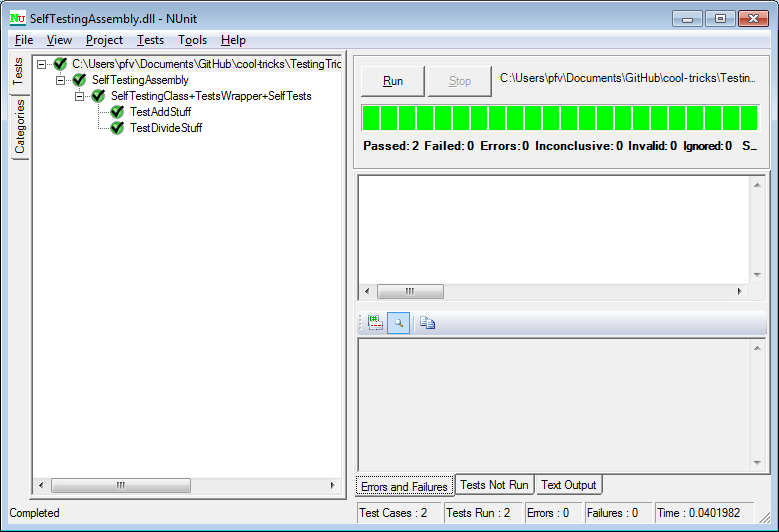
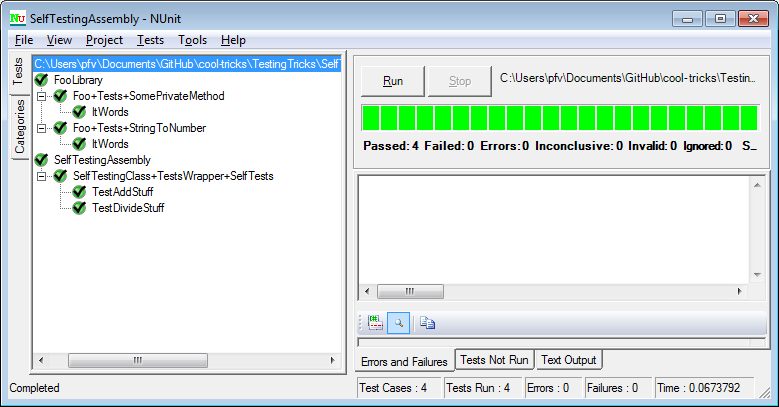
Update with multi-file demo.

diff --git a/TestingTricks/SelfTestingAssembly/UsingMultpleFiles/Foo.Tests.SomePrivateMethod.cs b/TestingTricks/SelfTestingAssembly/UsingMultpleFiles/Foo.Tests.SomePrivateMethod.cs
@@ -1,0 +1,22 @@
+namespace FooLibrary
+{
+    using NUnit.Framework;
+
+    internal sealed partial class Foo
+    {
+        private static partial class Tests
+        {
+            [TestFixture]
+            public class SomePrivateMethod
+            {
+                [Test]
+                public void ItWords()
+                {
+                    var foo = new Foo();
+                    var actualResult = foo.SomePrivateMethod("20");
+                    Assert.That(actualResult, Is.EqualTo(20));
+                }
+            }
+        }
+    }
+}

diff --git a/TestingTricks/SelfTestingAssembly/UsingMultpleFiles/Foo.Tests.StringToNumber.cs b/TestingTricks/SelfTestingAssembly/UsingMultpleFiles/Foo.Tests.StringToNumber.cs
@@ -1,0 +1,22 @@
+namespace FooLibrary
+{
+    using NUnit.Framework;
+
+    internal sealed partial class Foo
+    {
+        private static partial class Tests
+        {
+            [TestFixture]
+            public class StringToNumber
+            {
+                [Test]
+                public void ItWords()
+                {
+                    var foo = new Foo();
+                    var actualResult = foo.StringToNumber("10");
+                    Assert.That(actualResult, Is.EqualTo(10));
+                }
+            }
+        }
+    }
+}

diff --git a/TestingTricks/SelfTestingAssembly/UsingMultpleFiles/Foo.cs b/TestingTricks/SelfTestingAssembly/UsingMultpleFiles/Foo.cs
@@ -1,0 +1,15 @@
+namespace FooLibrary
+{
+    internal sealed partial class Foo
+    {
+        internal int StringToNumber(string s)
+        {
+            return 10;
+        }
+
+        private int SomePrivateMethod(string s)
+        {
+            return 20;
+        }
+    }
+}
